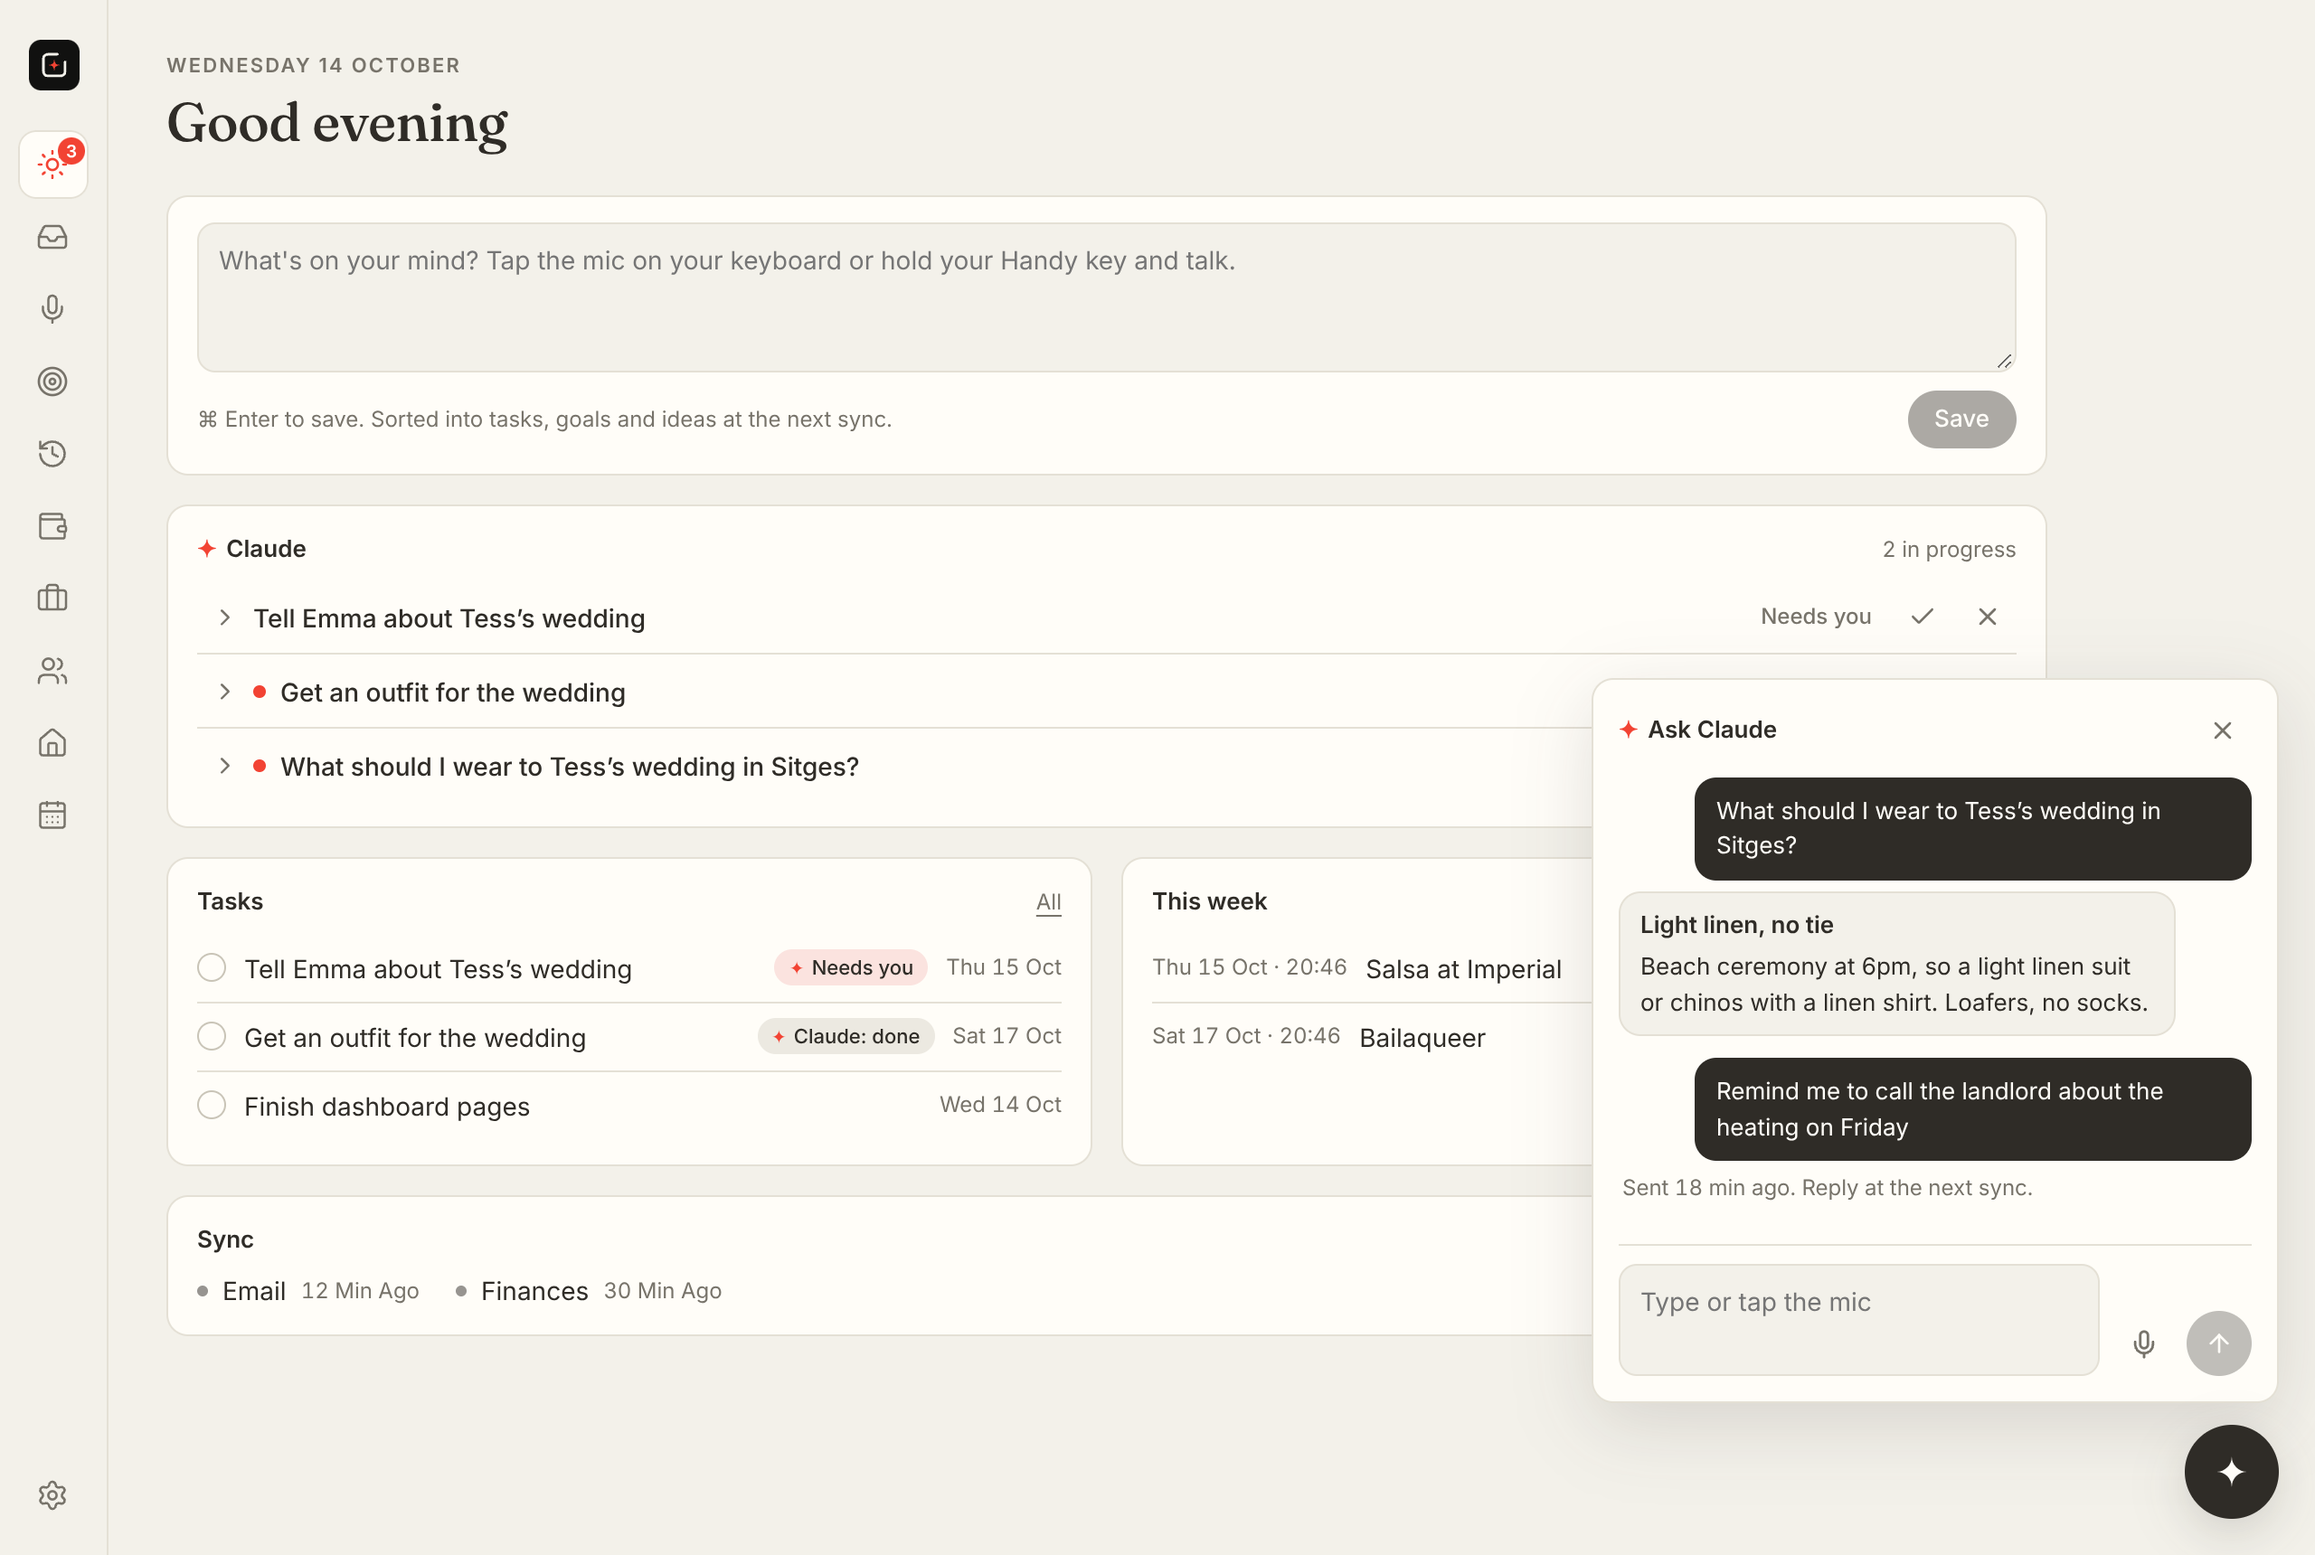
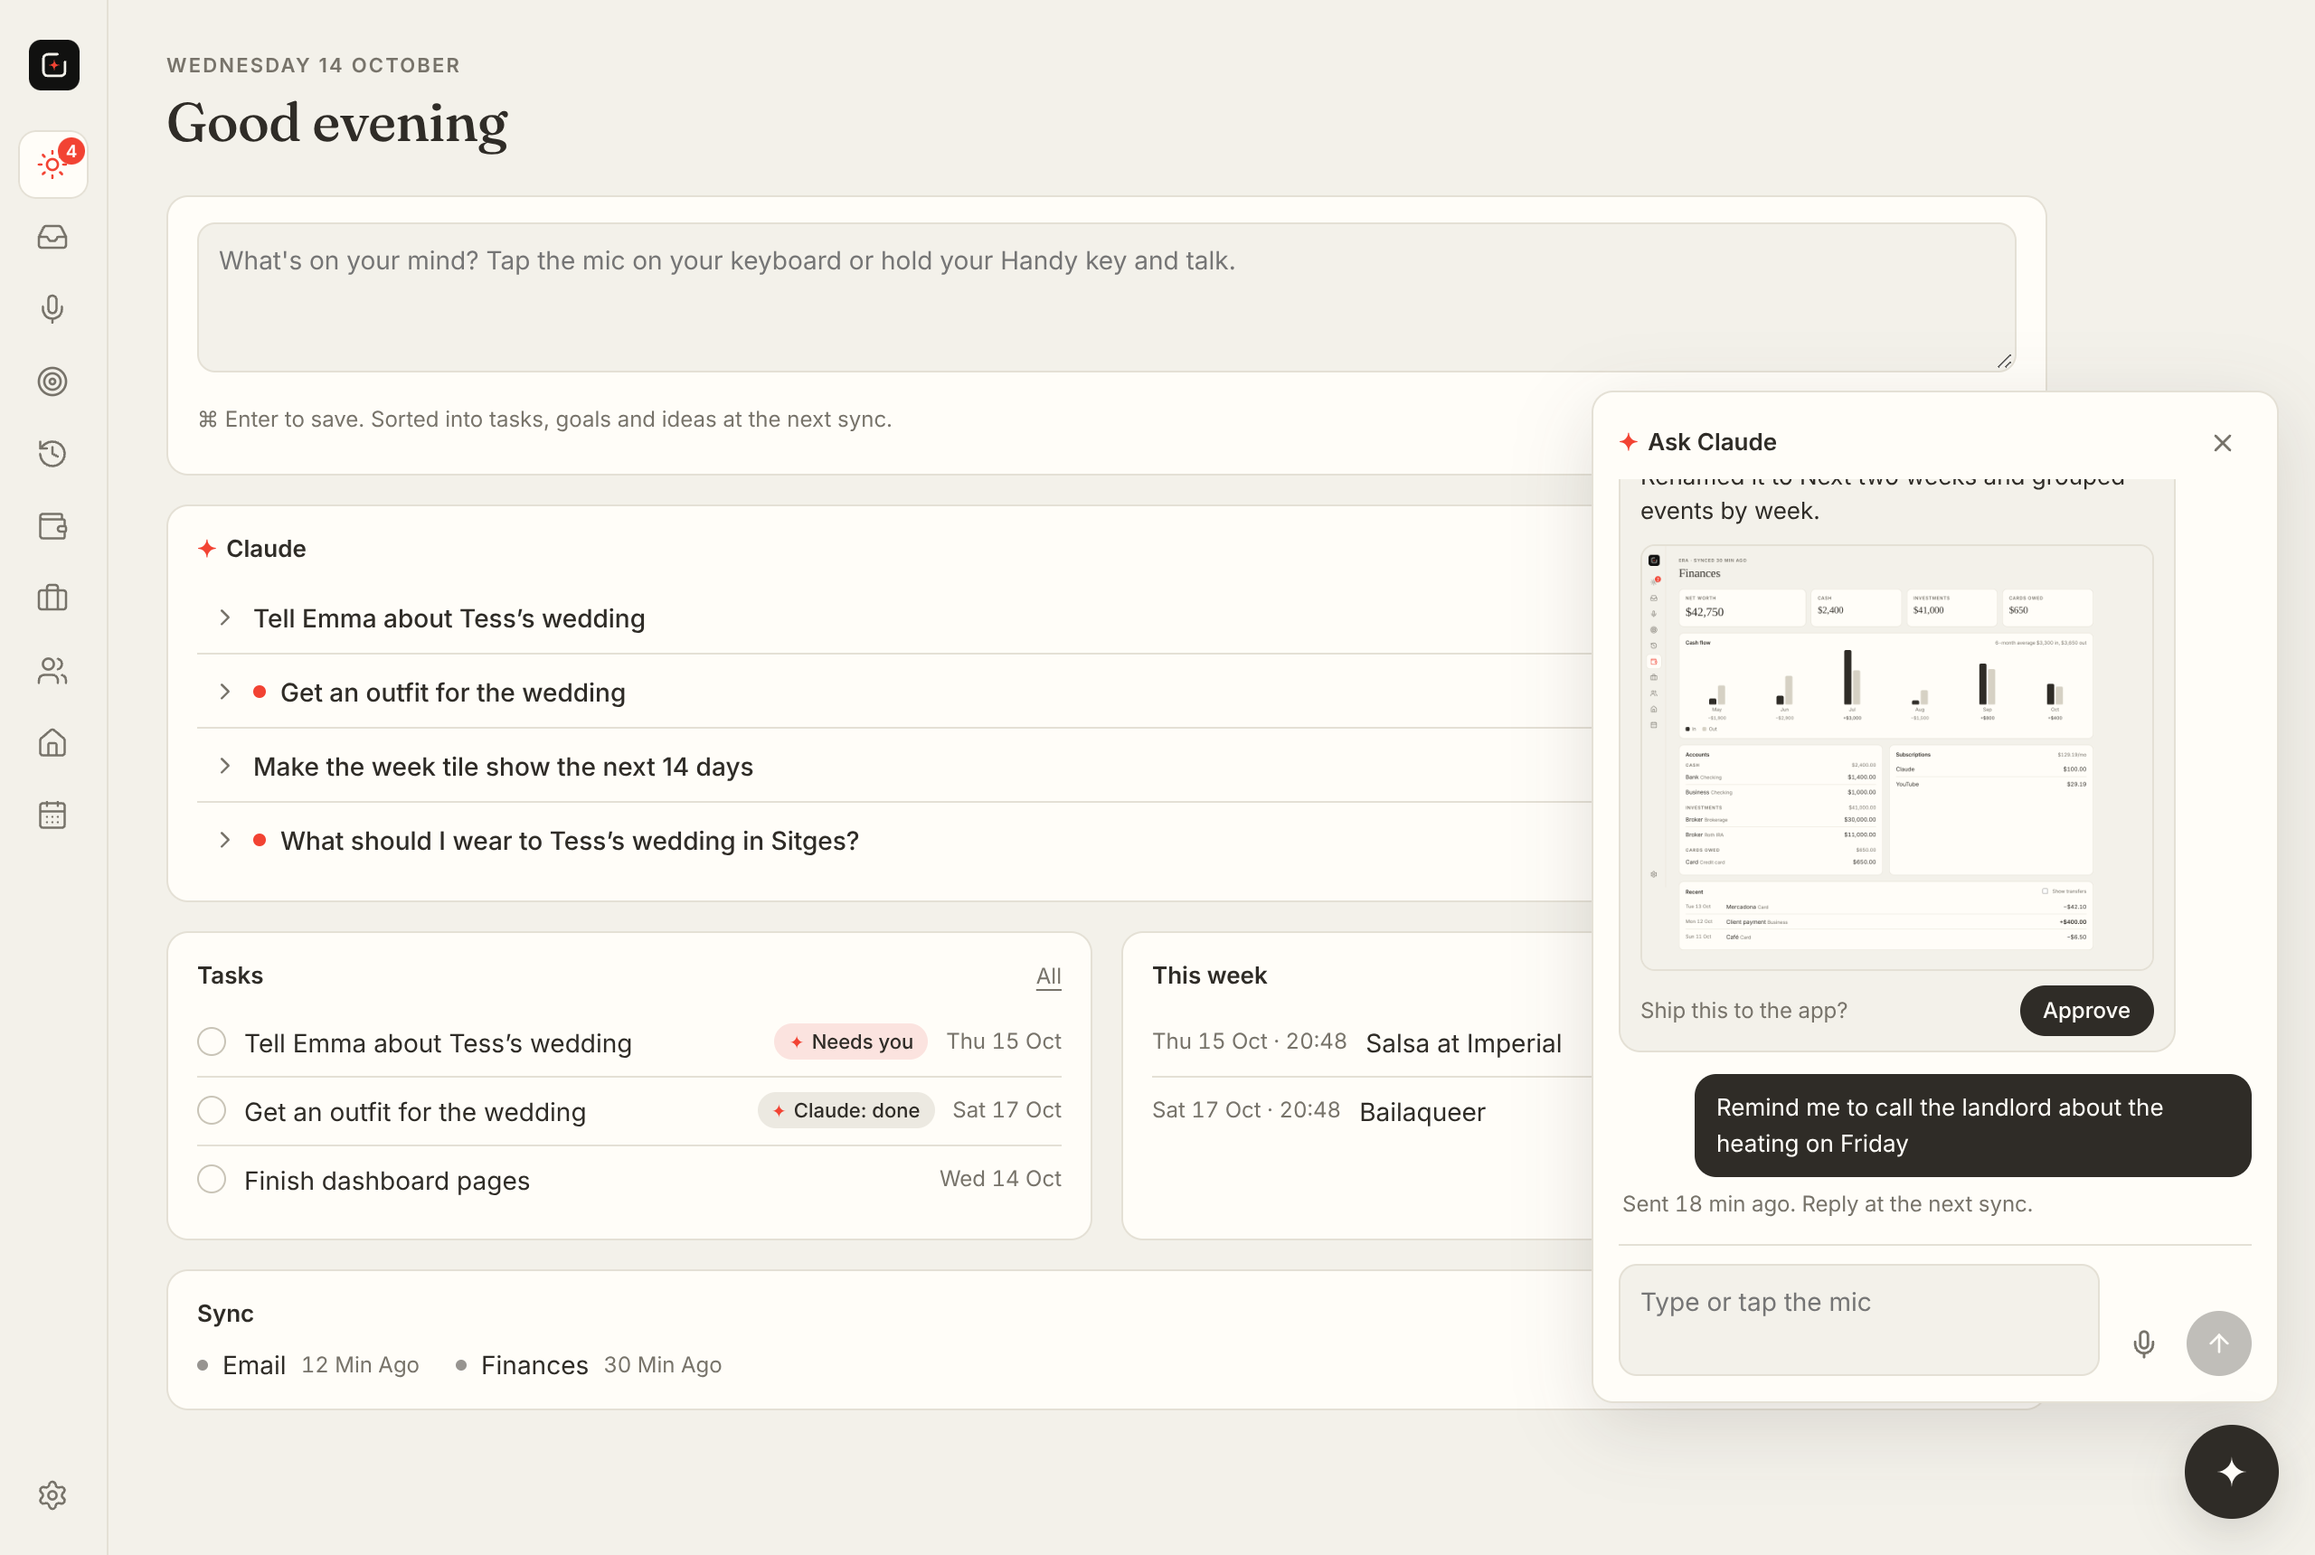
Ask Claude: approve dashboard edits and see previews right in the panel
Claude-Session: https://claude.ai/code/session_01UWWSGJeMoAigh9YUC5tepT

diff --git a/src/components/AskClaude.jsx b/src/components/AskClaude.jsx
@@ -68,6 +68,11 @@ export default function AskClaude() {
     load()
   }
 
+  async function approve(id) {
+    await supabase.from('claude_requests').update({ status: 'approved' }).eq('id', id)
+    load()
+  }
+
   return (
     <>
       {open && (
@@ -77,7 +82,7 @@ export default function AskClaude() {
             <button className="icon-btn" onClick={() => setOpen(false)} aria-label="Close"><X size={16} /></button>
           </div>
           <div className="ask-log">
-            {msgs.length === 0 && <p className="empty">Ask anything or hand off a task. Claude replies here within the hour.</p>}
+            {msgs.length === 0 && <p className="empty">Ask a question or ask for a change to the dashboard. Claude replies here within the hour.</p>}
             {msgs.map((m) => (
               <div key={m.id} className="ask-pair">
                 <p className="bubble me">{m.note}</p>
@@ -85,10 +90,19 @@ export default function AskClaude() {
                   <div className="bubble">
                     {m.summary && <p><b>{m.summary}</b></p>}
                     {m.result && <p className="dump-text">{m.result}</p>}
-                    {m.links?.map((l, i) => (
+                    {m.links?.filter((l) => !l.image).map((l, i) => (
                       <a key={i} href={l.url} target="_blank" rel="noreferrer" className="ask-link">{l.title || l.url}</a>
                     ))}
-                    {m.approval_ask && <p className="meta">{m.approval_ask} Approve on Today.</p>}
+                    {m.links?.filter((l) => l.image).map((l, i) => (
+                      <a key={'i' + i} href={l.url} target="_blank" rel="noreferrer"><img className="ask-shot" onLoad={() => end.current?.scrollIntoView({ block: "end" })} src={l.url} alt={l.title || 'Preview'} loading="lazy" /></a>
+                    ))}
+                    {m.status === 'needs_approval' && (
+                      <div className="ask-approve">
+                        <span className="meta">{m.approval_ask}</span>
+                        <button className="btn primary" onClick={() => approve(m.id)}>Approve</button>
+                      </div>
+                    )}
+                    {m.status === 'approved' && <p className="meta">Approved. Doing it at the next sync.</p>}
                   </div>
                 ) : (
                   <p className="meta ask-wait">{m.status === 'working' ? 'Claude is on it' : `Sent ${ago(m.created_at)}. Reply at the next sync.`}</p>

diff --git a/src/demo.js b/src/demo.js
@@ -26,6 +26,7 @@ const fixtures = {
     { id: 'r1', action: 'auto', item_id: 'i1', status: 'needs_approval', summary: 'Drafted a message to Emma', approval_ask: 'Send this email to Emma?', result: 'Hi Emma, Tess’s wedding is set for…', links: [], item: { title: 'Tell Emma about Tess’s wedding' }, updated_at: iso(1) },
     { id: 'r2', action: 'auto', item_id: 'i2', status: 'done', summary: '3 outfit options under €150', result: '1. Linen suit…', links: [], item: { title: 'Get an outfit for the wedding' }, updated_at: iso(1) },
     { id: 'a2', action: 'ask', note: 'Remind me to call the landlord about the heating on Friday', status: 'queued', created_at: iso(0.3), updated_at: iso(0.3) },
+    { id: 'a3', action: 'ask', note: 'Make the week tile show the next 14 days', status: 'needs_approval', summary: 'Week tile now covers 14 days', result: 'Renamed it to Next two weeks and grouped events by week.', approval_ask: 'Ship this to the app?', links: [{ title: 'Preview', url: 'previews/baseline/finances-desktop.png', image: true }], created_at: iso(0.5), updated_at: iso(0.4) },
     { id: 'a1', action: 'ask', note: 'What should I wear to Tess’s wedding in Sitges?', status: 'done', summary: 'Light linen, no tie', result: 'Beach ceremony at 6pm, so a light linen suit or chinos with a linen shirt. Loafers, no socks.', links: [], created_at: iso(3), updated_at: iso(2) },
     { id: 'r3', action: 'auto', item_id: 'i5', status: 'queued', item: { title: 'Mic button on Mac and iPhone' }, updated_at: iso(1) },
   ],

diff --git a/src/styles.css b/src/styles.css
@@ -285,12 +285,15 @@ ul.tile.list { padding-top: 6px; padding-bottom: 6px; }
 }
 .ask-panel .tile-head { align-items: center; margin-bottom: 4px; }
 .ask-log { flex: 1; overflow-y: auto; display: flex; flex-direction: column; gap: 12px; padding: 6px 0 10px; min-height: 120px; }
-.ask-pair { display: flex; flex-direction: column; gap: 6px; }
+.ask-pair { flex: none; display: flex; flex-direction: column; gap: 6px; }
 .bubble { max-width: 88%; padding: 8px 11px; border-radius: 12px; border: 1px solid var(--line); background: var(--bg); font-size: 13px; }
 .bubble p + p { margin-top: 4px; }
 .bubble.me { align-self: flex-end; background: var(--fg); border-color: var(--fg); color: var(--surface); white-space: pre-wrap; }
 .ask-wait { padding-left: 2px; }
 .ask-link { display: block; margin-top: 4px; font-size: 12px; color: var(--fg); text-underline-offset: 3px; overflow: hidden; text-overflow: ellipsis; white-space: nowrap; }
+.ask-shot { display: block; width: 100%; margin-top: 8px; border-radius: 8px; border: 1px solid var(--line); }
+.ask-approve { display: flex; align-items: center; justify-content: space-between; gap: 8px; margin-top: 8px; }
+.ask-approve .btn { height: 28px; padding: 0 12px; font-size: 12px; }
 .ask-input { display: flex; align-items: flex-end; gap: 6px; border-top: 1px solid var(--line); padding-top: 10px; }
 .ask-input textarea { min-height: 40px; max-height: 140px; resize: none; font-size: 14px; }
 .ask-input .icon-btn { width: 36px; height: 36px; }
